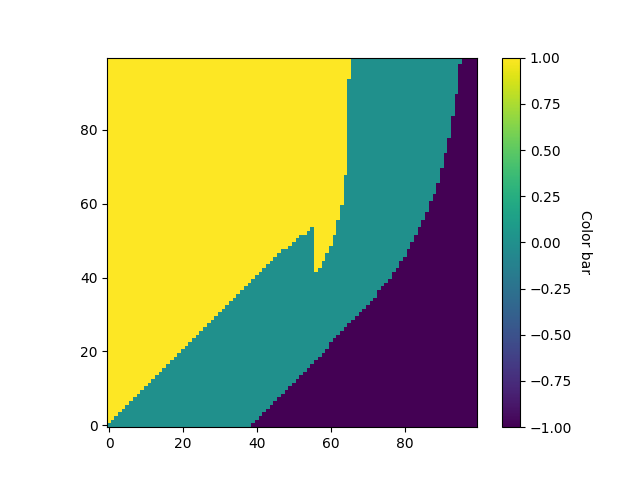
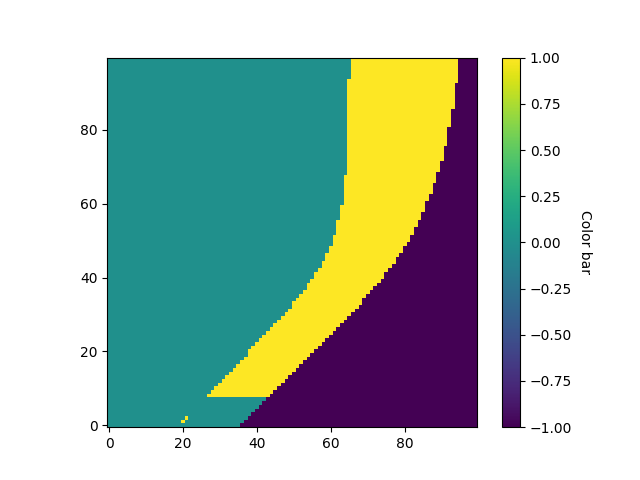
added Gamma == 1

Changed region(s): [[0.1562, 0.125, 0.7188, 0.9062]]

diff --git a/simulation/qctip2026/heisenberg/8-qubit/visualise_pec-wins.py b/simulation/qctip2026/heisenberg/8-qubit/visualise_pec-wins.py
@@ -25,13 +25,13 @@ print(deltas_2d_pec)
 deltas_2d_raw = run_raw["deltas_2d"]
 print(deltas_2d_raw)
 
-heatmap_gap = np.full_like(deltas_2d_pec, fill_value=1, dtype=int)
+heatmap_gap = np.full_like(deltas_2d_pec, fill_value=0, dtype=int)
 
-mask_large = (deltas_2d_pec >= 0.05) & (deltas_2d_raw >= 0.05)
-mask_pec_better = deltas_2d_pec < deltas_2d_raw
+mask_both_fail = (deltas_2d_pec >= 0.05) & (deltas_2d_raw >= 0.05)
+mask_pec_wins = deltas_2d_pec < deltas_2d_raw
 
-heatmap_gap[mask_pec_better] = 0
-heatmap_gap[mask_large] = -1
+heatmap_gap[mask_pec_wins] = 1
+heatmap_gap[mask_both_fail] = -1
 
 plt.close('all')
 fig, ax = plt.subplots(

diff --git a/simulation/qctip2026/heisenberg/8-qubit/run_pec.py b/simulation/qctip2026/heisenberg/8-qubit/run_pec.py
@@ -65,6 +65,7 @@ for N_shots in Ns_shots:
     for p in ps_dep_global:
         P = 1 - (1 - p) ** num_layers
         dm_depolarised = (1 - P) * dm_theoretical + P * np.identity(2 ** num_qubits) / (2 ** num_qubits)
+        assert dm_depolarised.is_valid()
         variance_base = np.abs((dm_depolarised @ (matrix_Heisenberg ** 2)).trace() - (dm_depolarised @ matrix_Heisenberg).trace() ** 2)
         overhead_pec = (1 + 3/2 * p) ** (2 * num_layers)
         delta = area_gaussian_outside(mu=energy_theoretical,

diff --git a/simulation/qctip2026/heisenberg/8-qubit/run_raw.py b/simulation/qctip2026/heisenberg/8-qubit/run_raw.py
@@ -66,6 +66,7 @@ for N_shots in Ns_shots:
     for p in ps_dep_global:
         P = 1 - (1 - p) ** num_layers
         dm_depolarised = (1 - P) * dm_theoretical + P * np.identity(2 ** num_qubits) / (2 ** num_qubits)
+        assert dm_depolarised.is_valid()
         variance_base = np.abs((dm_depolarised @ (matrix_Heisenberg ** 2)).trace() - (dm_depolarised @ matrix_Heisenberg).trace() ** 2)
         # print("varince_base:", variance_base)
         # print(N_shots, p)

diff --git a/simulation/qctip2026/heisenberg/8-qubit/setting.py b/simulation/qctip2026/heisenberg/8-qubit/setting.py
@@ -6,7 +6,7 @@ num_qubits = 8
 
 num_layers = 9
 
-Gamma_allowed = 1.5
+Gamma_allowed = 1.0
 # Gammas_allowed = np.array([1.1,])
 
 Ns_shots = np.logspace(0, 7, num=100)
